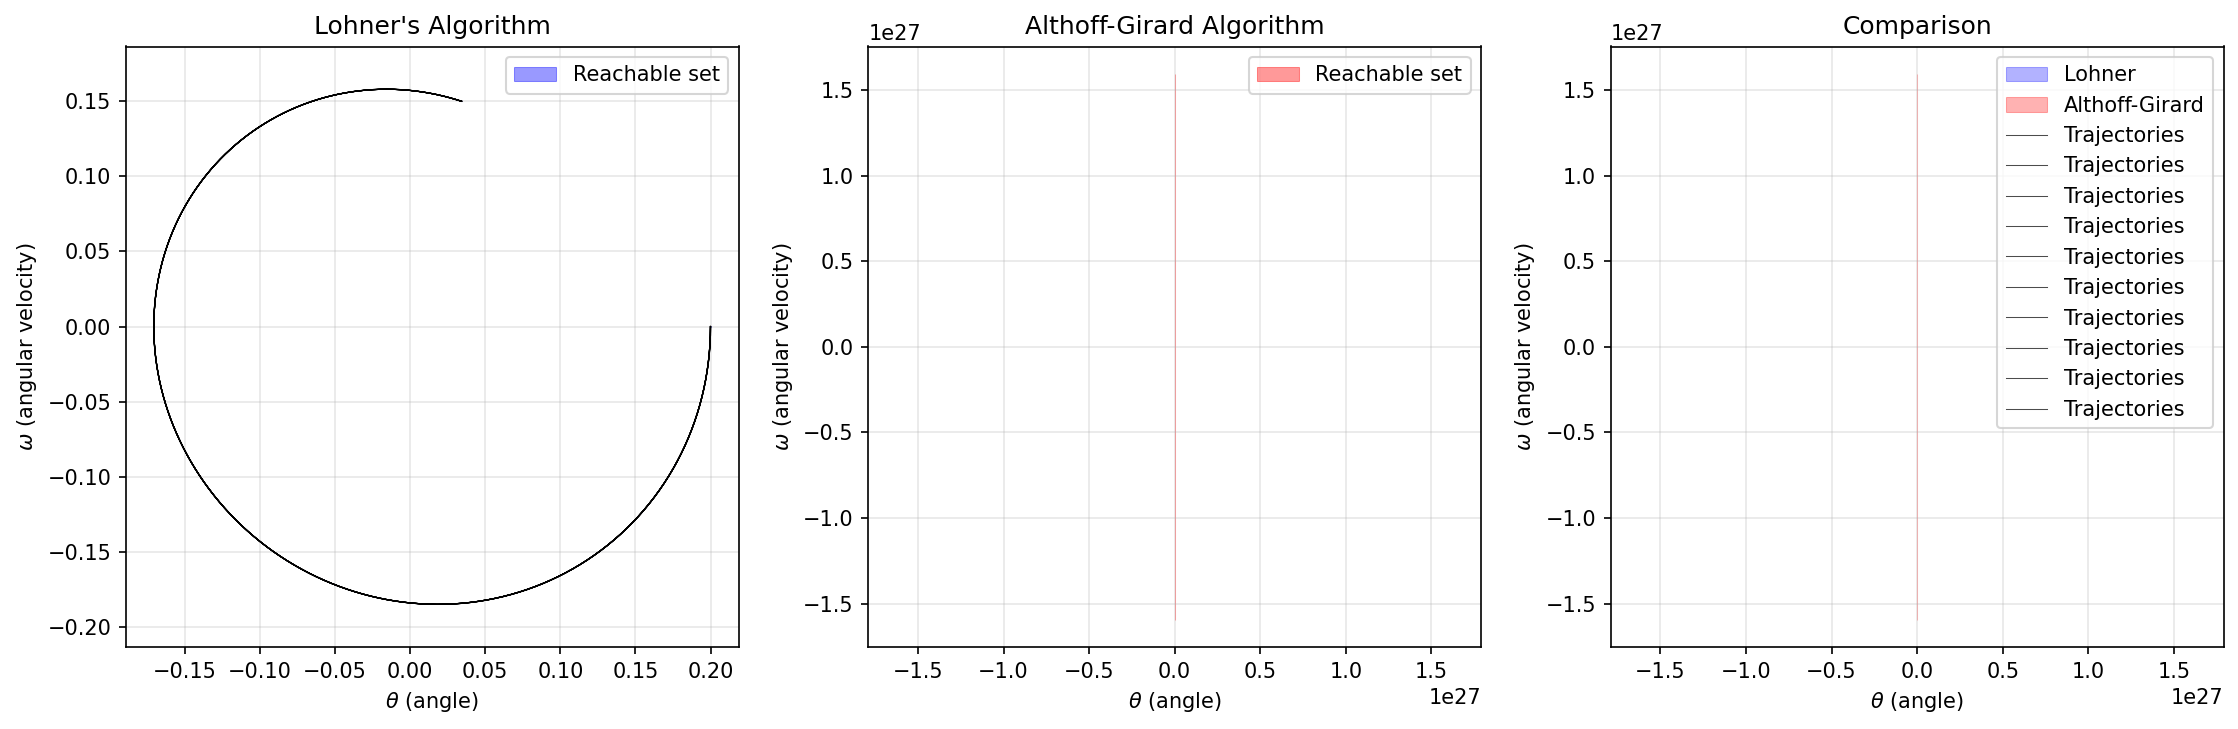
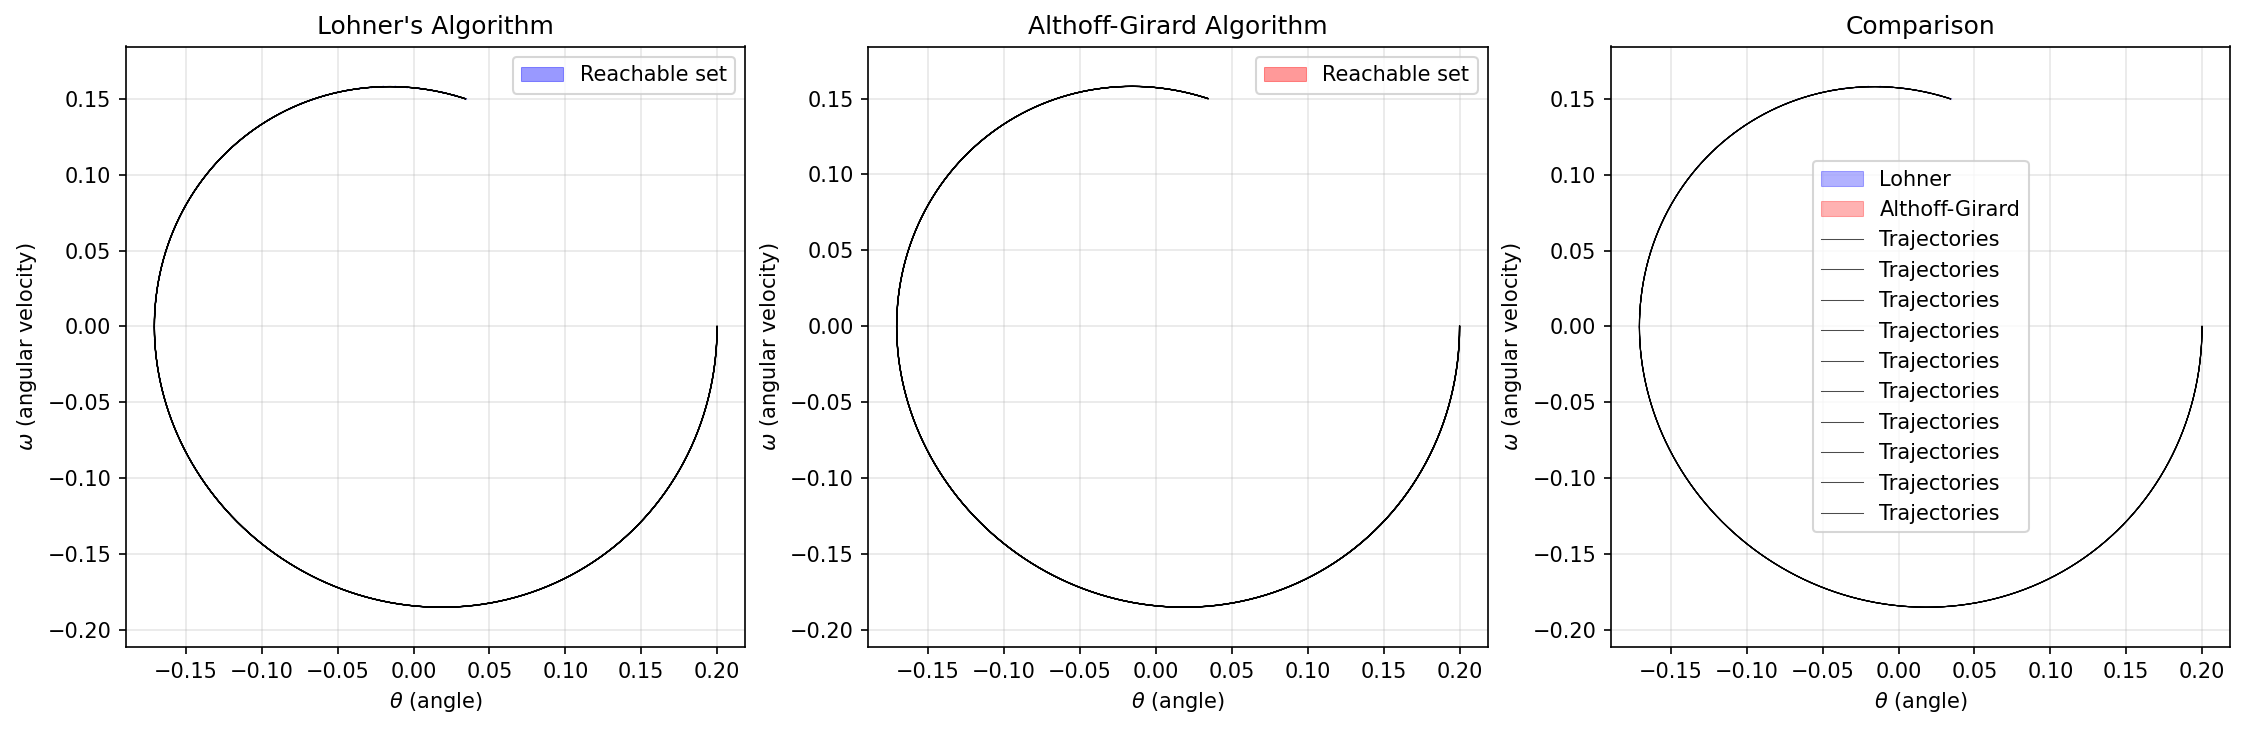
checkpoint before scan implementation for jit compatibility

diff --git a/immrax/generator/reachability.py b/immrax/generator/reachability.py
@@ -10,7 +10,7 @@ import jax
 import jax.numpy as jnp
 import jax.scipy.linalg
 from jax import lax
-from jax.experimental import jet
+from jax.experimental.jet import jet
 from abc import ABC, abstractmethod
 from dataclasses import dataclass
 from typing import Callable, Optional, Tuple, List, Union
@@ -38,7 +38,7 @@ def prolongation(f: Callable, p: int) -> Callable:
     @jax.jit
     def f_prolonged(t, x, *args):
         # Any remaining args at this stage are treated as constants for the Taylor series
-        def _f(t, x): f(t, x, *args)
+        def _f(t, x): return f(t, x, *args)
         
         t_series = [t, 1.]
         x_series = [x, _f(t, x)]
@@ -79,6 +79,12 @@ class ZonotopeReachSets(ReachableSets):
 
     def __call__(self, t):
         return super().__call__(t)
+
+    def __len__(self):
+        return len(self.sets)
+
+    def __getitem__(self, i):
+        return self.sets[i]
 
 # class PolyReachableTube(ReachableTube):
 #     ts: jax.Array
@@ -250,7 +256,8 @@ class LohnerReachability(BaseZonotopeGenerator):
         def get_highest_derivative_norm(x):
             series = self._get_series(t, x, *f_args)
             t_series = [1.] + [0.] * (len(series) - 1)
-            next_term = jet(self.sys.f, (t, x), (t_series, series))[-1]
+            _, out_series = jet(self.sys.f, (t, x), (t_series, series))
+            next_term = out_series[-1]  # Get last element of output series
             return jnp.abs(next_term)
 
         max_deriv = natif(get_highest_derivative_norm)(R).upper
@@ -319,7 +326,9 @@ class AlthoffGirardReachability(BaseZonotopeGenerator):
         for i in range(n):
             def hessian_norm(x):
                 return jnp.max(jnp.abs(jax.hessian(lambda s: self.sys.f(t, s, *f_args)[i])(x)))
-            H_max = natif(hessian_norm)(R).upper
+            H_result = natif(hessian_norm)(R)
+            # natif returns Interval for interval inputs, but handle both cases
+            H_max = H_result.upper if hasattr(H_result, 'upper') else H_result
             L_bounds.append(0.5 * H_max * dx_sq_sum)
         
         L_bound = jnp.array(L_bounds)
@@ -413,7 +422,8 @@ class AlthoffTaylorReachability(BaseZonotopeGenerator):
         def get_highest_derivative_norm(x):
             series = self._get_series(t, x, *f_args)
             t_series = [1.] + [0.] * (len(series) - 1)
-            next_term = jet(self.sys.f, (t, x), (t_series, series))[-1]
+            _, out_series = jet(self.sys.f, (t, x), (t_series, series))
+            next_term = out_series[-1]  # Get last element of output series
             return jnp.abs(next_term)
 
         max_deriv = natif(get_highest_derivative_norm)(R).upper
